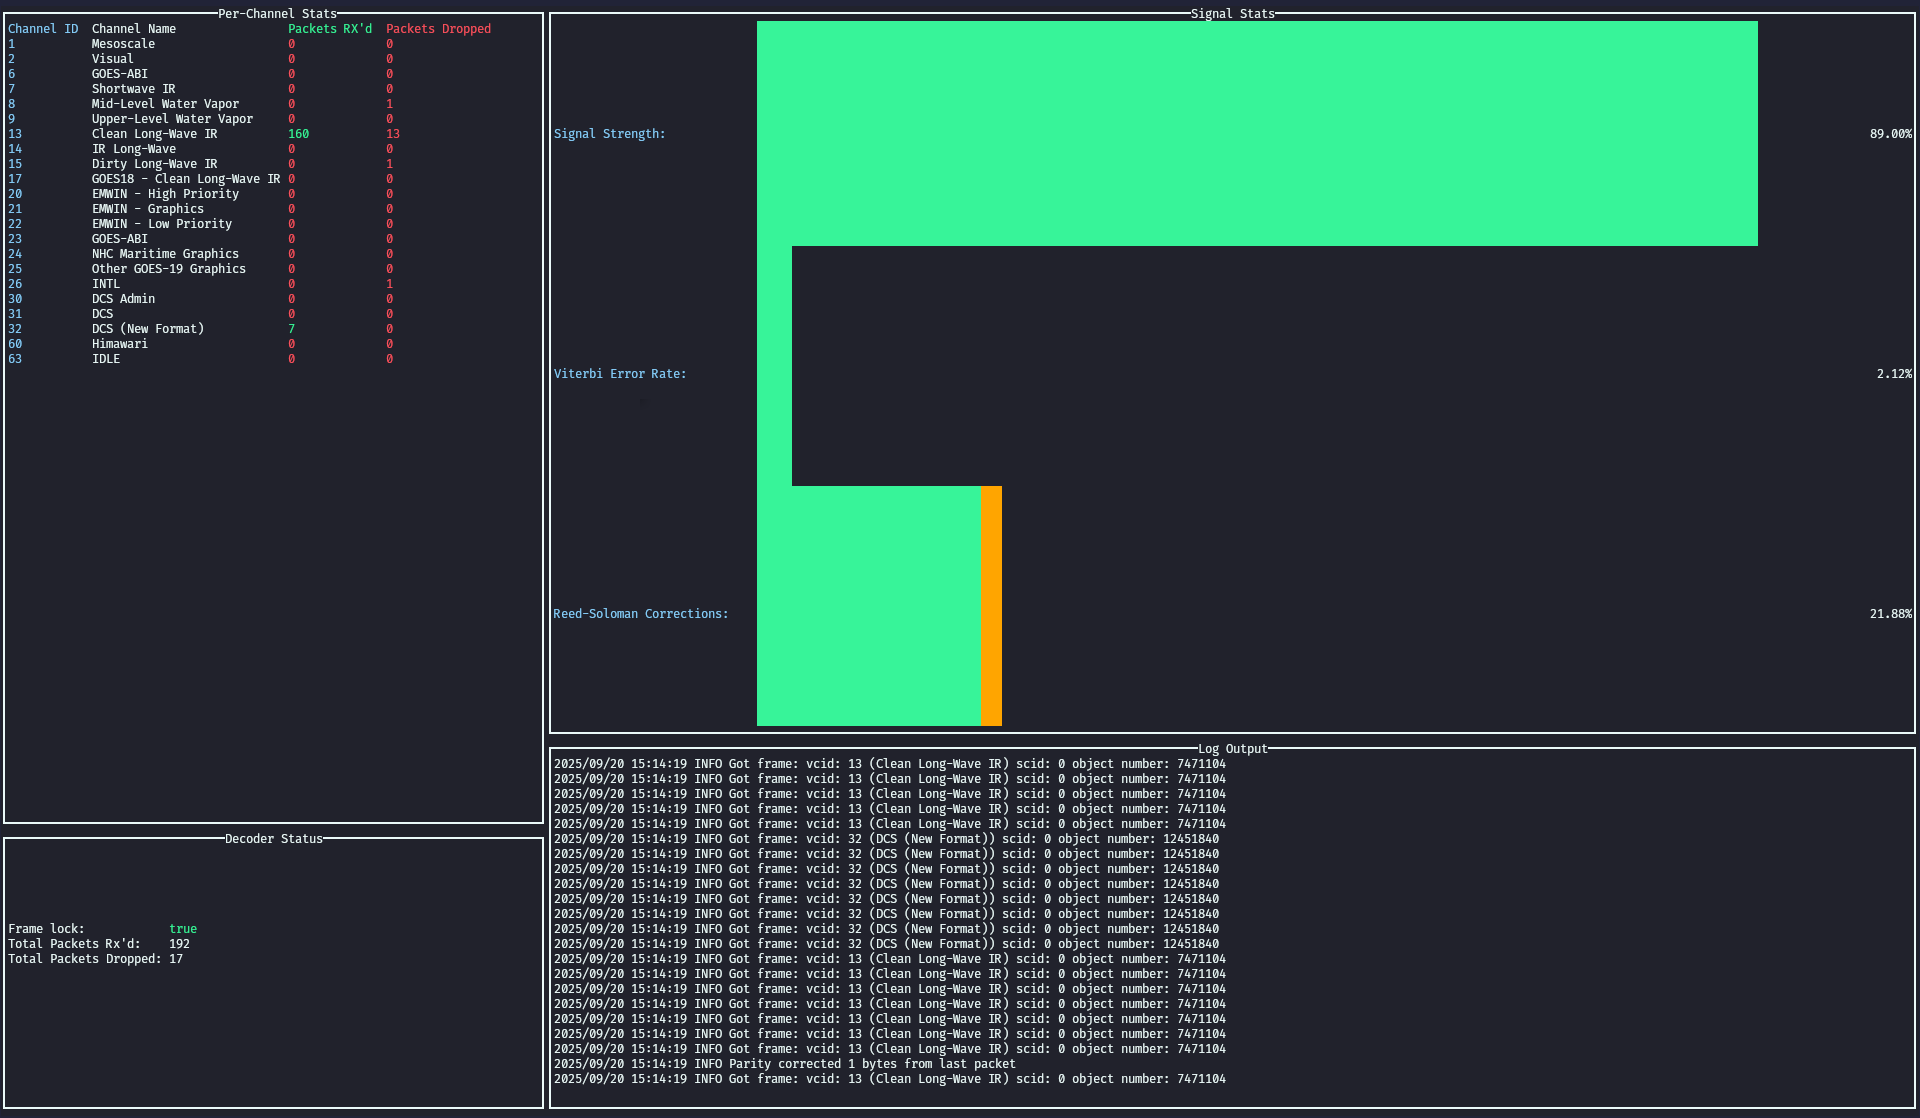
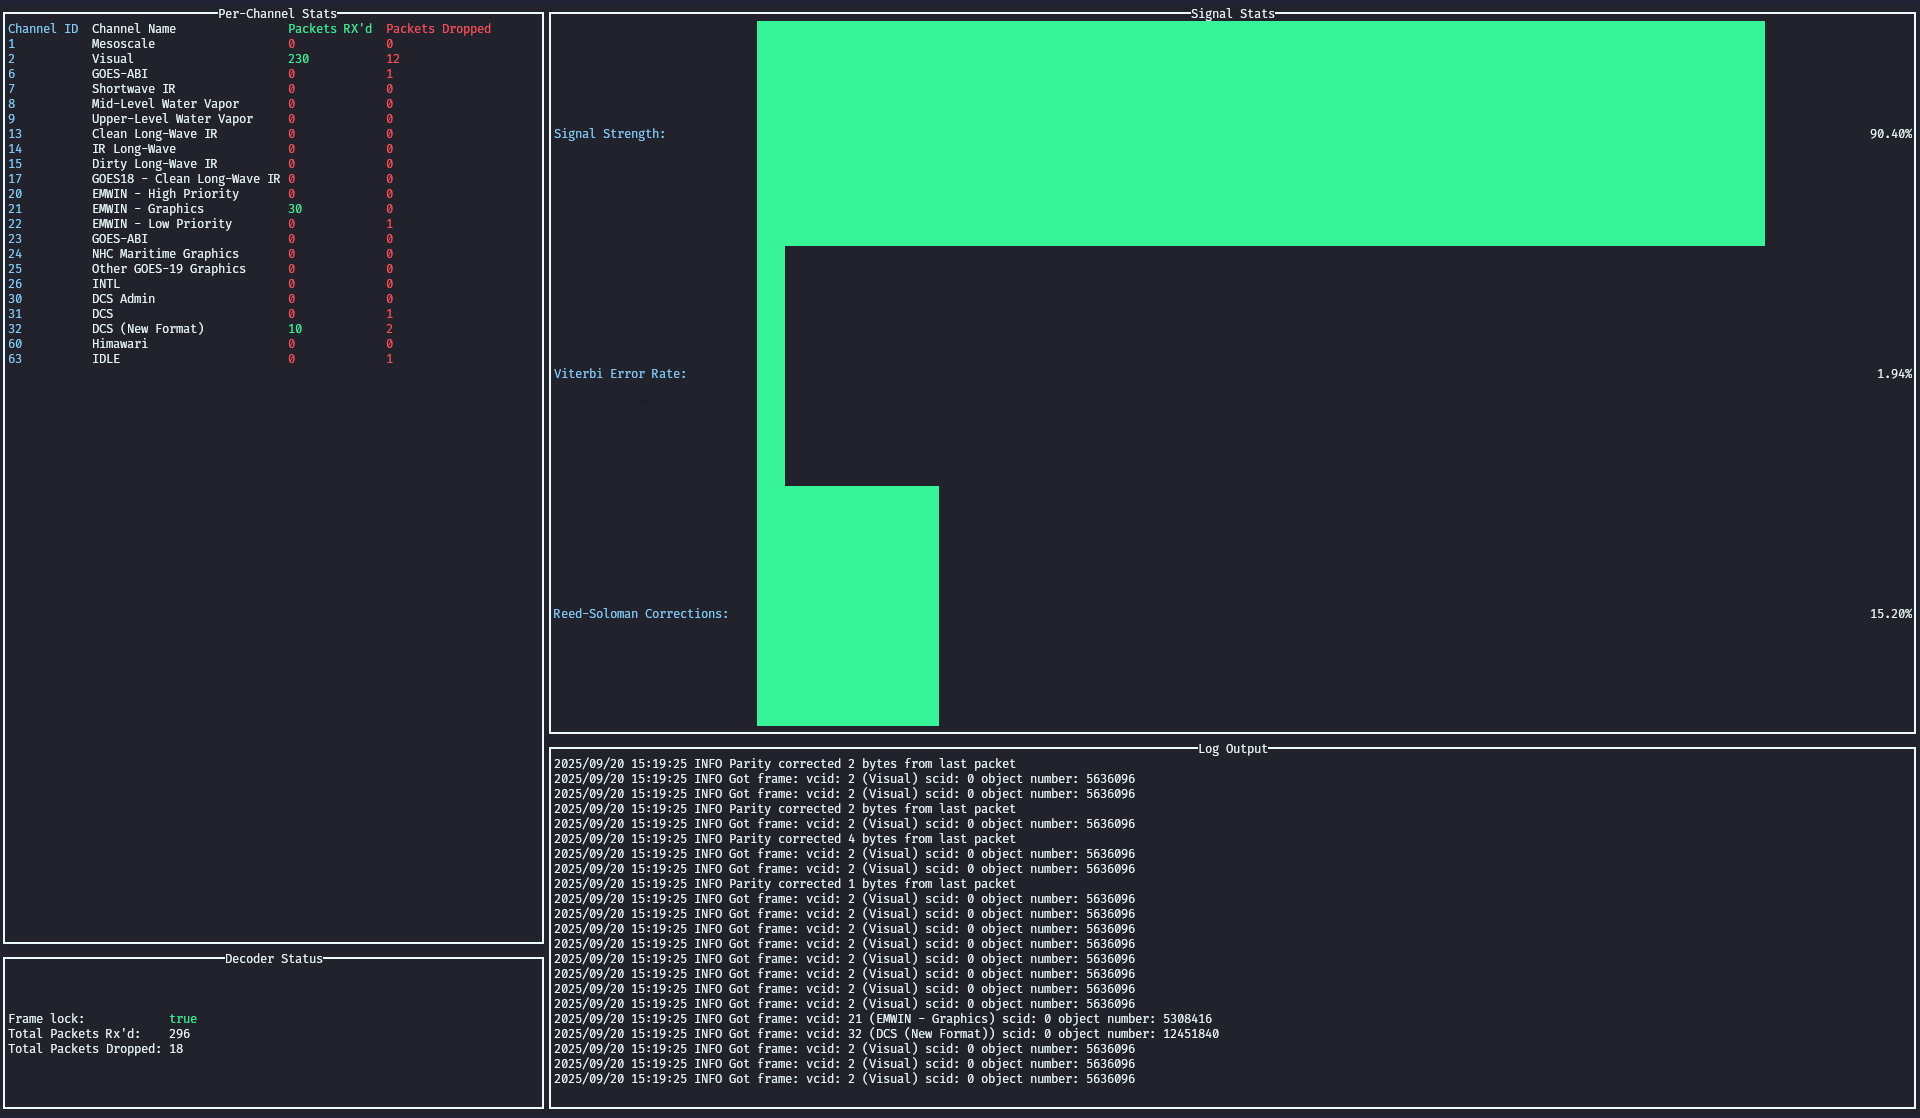
Fixing layout a bit and updated screenshot to reflect change

diff --git a/tui/tui.go b/tui/tui.go
@@ -90,7 +90,7 @@ func StartUI(decoder *decode.Decoder, demodulator *demod.Demodulator, enableFFT 
 	page := tview.NewFlex().SetDirection(tview.FlexColumn)
 
 	leftCol := tview.NewFlex().SetDirection(tview.FlexRow)
-	leftCol.AddItem(channelStats, 0, 3, false)
+	leftCol.AddItem(channelStats, 0, 6, false)
 	leftCol.AddItem(decoderStats, 0, 1, false)
 
 	rightCol := tview.NewFlex().SetDirection(tview.FlexRow)
